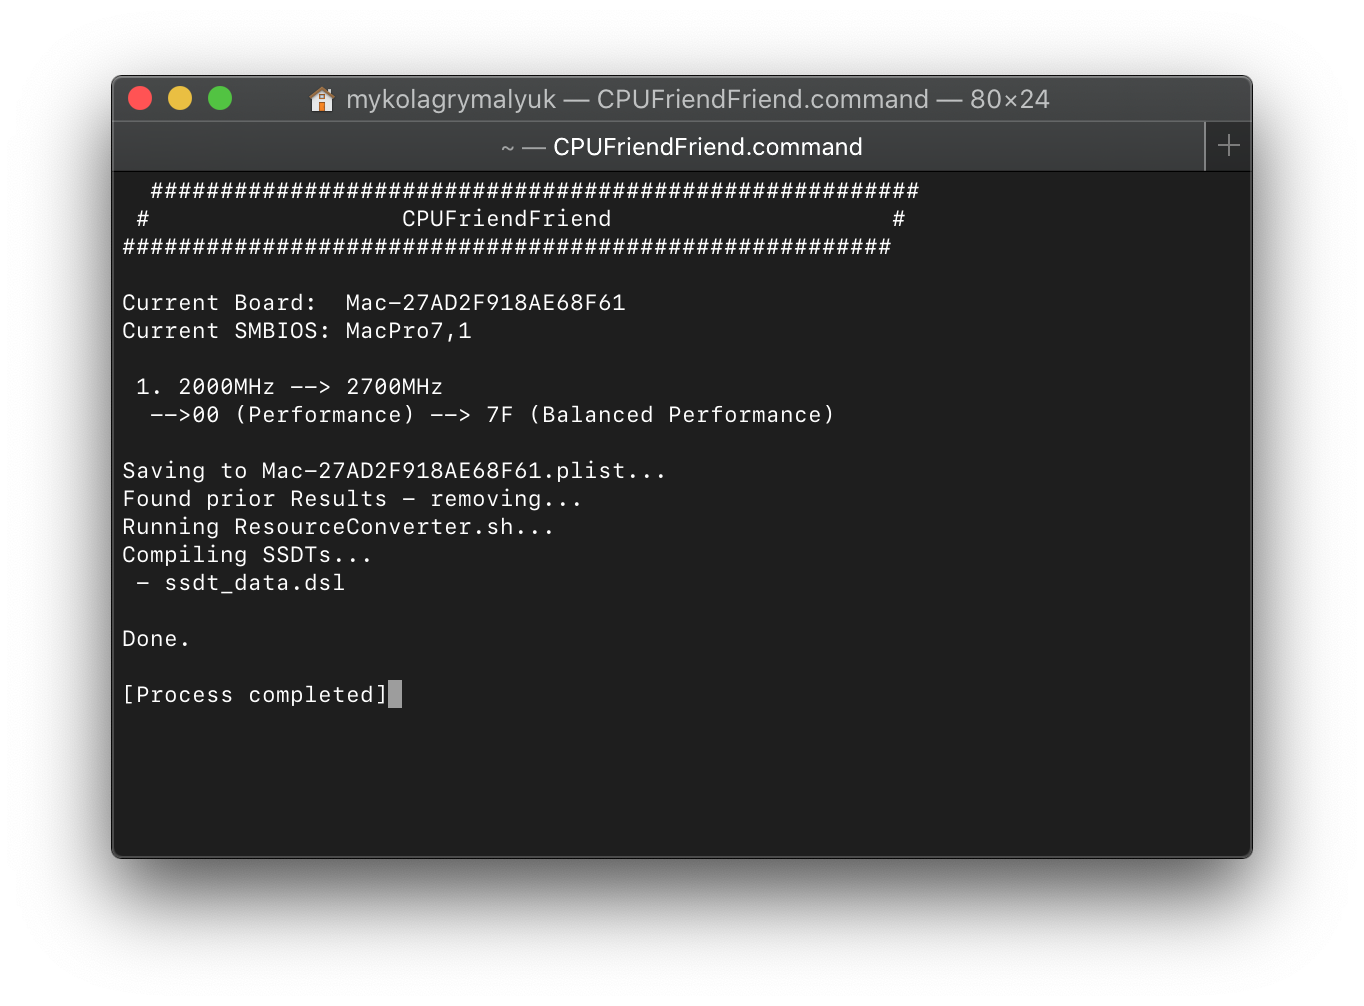
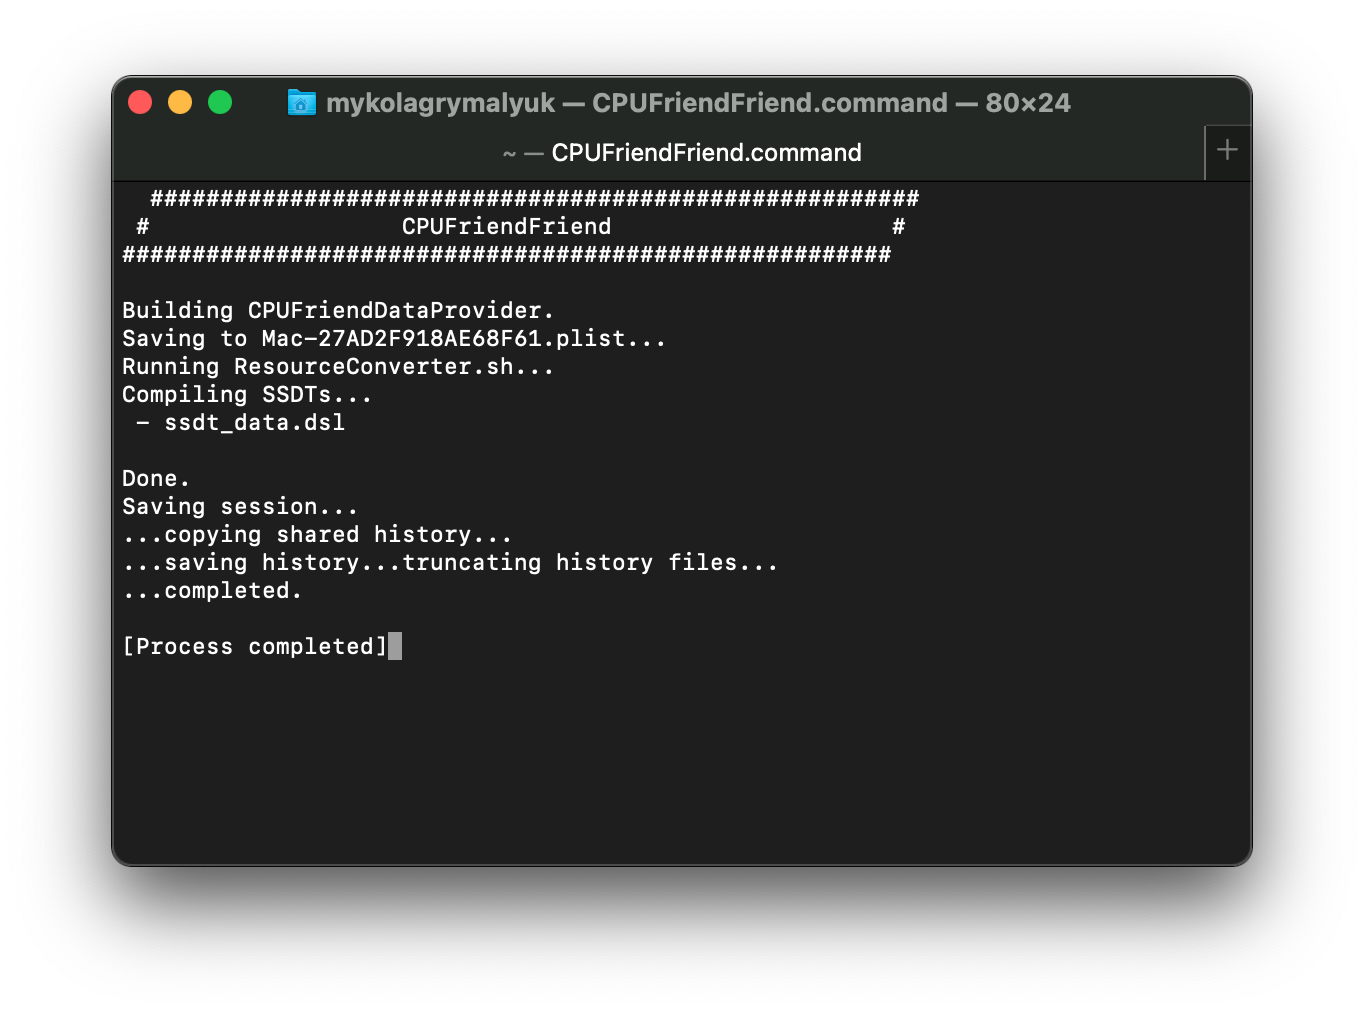
Correct CPUFriend and ssdtPRGen info
Ref: https://github.com/dortania/bugtracker/issues/57

diff --git a/.vuepress/config.js b/.vuepress/config.js
@@ -95,7 +95,7 @@ module.exports = {
         {
             title: 'Universal',
             collapsable: false,
-            sidebarDepth: 1,
+            sidebarDepth: 2,
             children: [
                 ['/universal/security', 'Security and FileVault'],
                 ['/universal/audio', 'Fixing Audio'],

diff --git a/universal/pm.md b/universal/pm.md
@@ -4,7 +4,7 @@
 
 ## Enabling X86PlatformPlugin
 
-So before we can fine tune power management to our liking, we need to first make sure Apple's XCPM core is loaded. Note that this is supported **only on Haswell and newer**, Sandy, Ivy Bridge and AMD CPUs should refer to the bottom of the guides: 
+So before we can fine tune power management to our liking, we need to first make sure Apple's XCPM core is loaded. Note that this is supported **only on Haswell and newer(with Ivy Bridge-E)**, consumer Sandy, Ivy Bridge and AMD CPUs should refer to the bottom of the guides: 
 
 * [Sandy and Ivy Bridge Power Management](../universal/pm.md#sandy-and-ivy-bridge-power-management)
 * [AMD CPU Power Management](../universal/pm.md#amd-cpu-power-management)
@@ -29,16 +29,16 @@ plugin-type | Number | 0x1
 
 XCPM does not natively support Haswell-E and Broadwell-E, this means we need to spoof the CPU ID into a model that does supports XCPM:
 
-* **Haswell E**:
+* **Haswell-E**:
 
   * `Kernel -> Emulate`:
-    * Cpuid1Data: `C3060300 00000000 00000000 00000000`
+    * Cpuid1Data: `C3060300 00000000 00000000 00000000`
     * Cpuid1Mask: `FFFFFFFF 00000000 00000000 00000000`
 
 * **Broadwell-E**:
 
   * `Kernel -> Emulate`:
-    * Cpuid1Data: `D4060300 00000000 00000000 00000000`
+    * Cpuid1Data: `D4060300 00000000 00000000 00000000`
     * Cpuid1Mask: `FFFFFFFF 00000000 00000000 00000000`
 
 ## Using CPU Friend
@@ -48,36 +48,46 @@ To start, we're gonna need a couple things:
 * X86PlatformPlugin loaded
   * This means Sandy, Ivy Birdge and AMD CPUs are not supported
 * [CPUFriend](https://github.com/acidanthera/CPUFriend/releases)
-* [CPUFriendFriend](https://github.com/corpnewt/CPUFriendFriend)
+* [Fewt's fork of CPUFriendFriend](https://github.com/fewtarius/CPUFriendFriend)
+  * This fork has some additional features that can help both simplify the process and give use some better control
 
-Now lets run CPUFriendFriend.command
+### LFM: Low Frequency Mode
+
+Now lets run CPUFriendFriend.command:
 
 ![](../images/post-install/pm-md/lpm.png)
 
-The `min hex freq` should be what the lowest possible TDP for the CPU, on Intel's [ARK site](https://ark.intel.com/) search for `TDP-down Frequency` and convert this value to HEX. Note that not all CPUs support `TDP-down Frequency`, like the i7-9700T vs i7 9700. In these scenarios, you'll want to do a bit more research into your CPU, specifically:
+When you first open up CPUFriendFriend, you'll be greeted with a prompt for choosing your LFM value. This can be seen as the floor of your CPU, or the lowest value it'll idle at. This value can greatly help with sleep functioning correctly as macOS needs to be able to transition from S3(sleep) to S0(wake) easily.
 
-* Minimum Multiplier (Generally stable with x10 on Intel's consumer platform)
-* FSB (Front Side Bus Frequency, this is 100MHz on most CPUs)
+To determine your LPM value, you can either:
 
-LPM = MinMultiplier x FSB
+* Look for the `TDP-down Frequency` on Intel's [ARK site](https://ark.intel.com/)
+  * Note most CPUs do not have a listed value, so you'll need to determine yourself
+* Or choose recommended values:
 
-For this example we'll be using the [i9 7920x](https://ark.intel.com/content/www/us/en/ark/products/126240/intel-core-i9-7920x-x-series-processor-16-5m-cache-up-to-4-30-ghz.html) which has a base clock of 2.9 GHz but no LPM, so we'll choose 1.3 GHz(13x100) and work our way up/down until we find stability.
+| Generation | LFM Value | Comment |
+| :--- | :--- | :--- |
+| Broadwell+ Laptops | 08 | Equivalent of 800Mhz |
+| Broadwell+ Desktops | 0A | Equivalent of 1000Mhz |
+| Haswell/Broadwell HEDT/Server(ie. X99) | 0D | Equivalent of 1300Mhz |
+| Skylake+ HEDT/Server(ie. X299) | 0C | Equivalent of 1200Mhz |
 
-**Note**:  Mobile SMBIOS will likely have several Frequency Vectors, this is for how many steps your CPU will take. On the MacBook9,1 SMBIOS for example, we get 3 Frequency Vectors. So the idea is:
 
-1. Lowest frequency macOS will idle at(ie. sitting at the desktop)
-2. Middle frequency for simple tasks(ie. text editing or using the finder)
-3. Average frequency for little more demanding tasks(ie. Safari, Youtube, etc)
+* **Note**: LFM value is only available on Broadwell and newer SMBIOS
+* **Note 2**: these values are not set in stone, each machine will have unique characteristics and so you'll need to experiment what works best for your hardware
 
-The last frequency is not your maximum frequency so don't worry about being capped at that limit.
+For this example we'll be using the [i9 7920x](https://ark.intel.com/content/www/us/en/ark/products/126240/intel-core-i9-7920x-x-series-processor-16-5m-cache-up-to-4-30-ghz.html) which has a base clock of 2.9 GHz but no LFM, so we'll choose 1.3 GHz(ie. 1300Mhz) and work our way up/down until we find stability.
 
-![](../images/post-install/pm-md/macbook.png)
+* Note that the LFM value is simply the CPU's multiplier, so you'll need to trim your value appropriately
+  * ie. Divide by 100, then convert to hexadecimal
 
-```
-echo "obase=16; 13" | bc
+```sh
+$ echo "obase=16; 13" | bc
 ```
 
 * Pay close attention we used 13 for 1.3Ghz and not 1.3
+
+### EPP: Energy Performance Preference
 
 ![](../images/post-install/pm-md/epp.png)
 
@@ -88,9 +98,18 @@ Next up is the Energy Performance Preference, EPP. This tells macOS how fast to 
 | 0x00-0x3F| Max Performance |
 | 0x40-0x7F | Balance performance |
 | 0x80-0xBF | Balance power |
-| 0xC0-0xFF | Max Power Saving|
+| 0xC0-0xFF | Max Power Saving |
 
 **Note**: Only Skylake and newer SMBIOS officially support EPP
+
+### Performance Bias
+
+![](../images/post-install/pm-md/pm-bias.png)
+
+This final entry is to help macOS out what kind of overall performance you'd like from your CPU. The general recommendation depends on your exact setup, and experimenting does help figure out what's best for you.
+
+
+### Cleaning up
 
 ![](../images/post-install/pm-md/done.png)
 ![](../images/post-install/pm-md/files.png)
@@ -99,23 +118,28 @@ Once you're finished, you'll be provided with a CPUFriendDataProvider.kext and s
 
 * **Note**: Load order does not matter with the CPUFriendDataProvider as it's just a plist-only kext
 * **Note 2**: Wake issues resulting from CPUFriend is likely due to incorrect frequency vectors, every system is unique so you'll need to play around until you get a stable config. Kernel panics will have `Sleep Wake failure in efi`.
+* **Note 3**: If you do choose to use ssdt_data.aml, note that SSDT-PLUG is no longer needed. However the setup for this SSDT is broken on HEDT platforms like X79, X99 and X299, so we highly recommend SSDT-PLUG with CPUFriendDataProvider.kext instead.
 
 ## Sandy and Ivy Bridge Power Management
 
 With Sandy and Ivy Bridge, consumer PCs have issues connecting to Apple's XCPM. So to get around this we need to create our own Power Management Table.
 
+* **Note**: Ivy Bridge-E CPUs do officially support XCPM, please refer to [Enabling X86PlatformPlugin](#enabling-x86platformplugin) instead
+
 What we'll need:
 
-* CpuPm and Cpu0Ist tables dropped
+* Ensure CpuPm and Cpu0Ist tables are **NOT** dropped
 * [ssdtPRGen](https://github.com/Piker-Alpha/ssdtPRGen.sh)
 
-To drop the CpuPm and Cpu0Ist tables, head to ACPI -> Delete:
+Initialling with OpenCore's setup in the Ivy Bridge section, we recommended users drop their CpuPm and Cpu0Ist to avoid any issues with AppleIntelCPUPowermanagement.kext. But dropping these tables have the adverse affect of breaking turbo boost in Windows. So to resolve this, we'll want to keep our OEM's table but we'll want to add a new table to supplement data only for macOS
+
+To ACPI -> Delete, ensure both of these sections have `Enabled` set to NO:
 
 | Key | Type | Value |
 | :--- | :--- | :--- |
 | All | Boolean | YES |
 | Comment | String | Drop CpuPm |
-| Enabled | Boolean | YES |
+| Enabled | Boolean | NO |
 | OemTableId | Data | 437075506d000000 |
 | TableLength | Number | 0 |
 | TableSignature | Data | 53534454 |
@@ -124,7 +148,7 @@ To drop the CpuPm and Cpu0Ist tables, head to ACPI -> Delete:
 | :--- | :--- | :--- |
 | All | Boolean | YES |
 | Comment | String | Drop Cpu0Ist |
-| Enabled | Boolean | YES |
+| Enabled | Boolean | NO |
 | OemTableId | Data | 4370753049737400 |
 | TableLength | Number | 0 |
 | TableSignature | Data | 53534454 |
